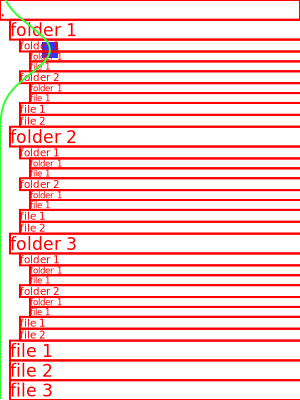
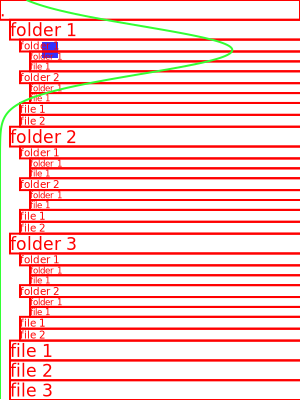
Move some scaling stuff to NormalDistribution.

diff --git a/ride.py b/ride.py
@@ -76,7 +76,7 @@ class TreeView:
         if debug:
             for point in range(0, height, 1):
                 context.line_to(
-                    distribution.at(point)*3000,
+                    distribution.at(point)*100,
                     point
                 )
             context.set_source_rgb(0.2, 1, 0.2)
@@ -117,6 +117,8 @@ class TreeView:
             scale = 1
         for item in self.items:
             item.apply_scale(scale)
+        if distribution:
+            distribution.set_max_factor(scale)
         return [item.scale for item in self.items]
 
 class TreeItem:
@@ -271,8 +273,22 @@ class NormalDistribution:
     def __init__(self, center, deviation):
         self.center = center
         self.deviation = deviation
+        self.factor = 1
+
+    def set_max_factor(self, x):
+        self.factor = 1 / (x * self.max())
 
     def max(self):
+        """
+        >>> x = NormalDistribution(center=0, deviation=1)
+
+        >>> round(x.max(), 2)
+        0.4
+
+        >>> x.set_max_factor(0.5)
+        >>> round(x.max(), 2)
+        2.0
+        """
         return self.at(self.center)
 
     def at(self, x):
@@ -285,7 +301,7 @@ class NormalDistribution:
         >>> round(x.at(2), 2)
         0.05
         """
-        return (
+        return self.factor * (
             1 / math.sqrt(2*math.pi*self.deviation**2)
         ) * math.e ** (
             -0.5*((x-self.center)/self.deviation)**2
